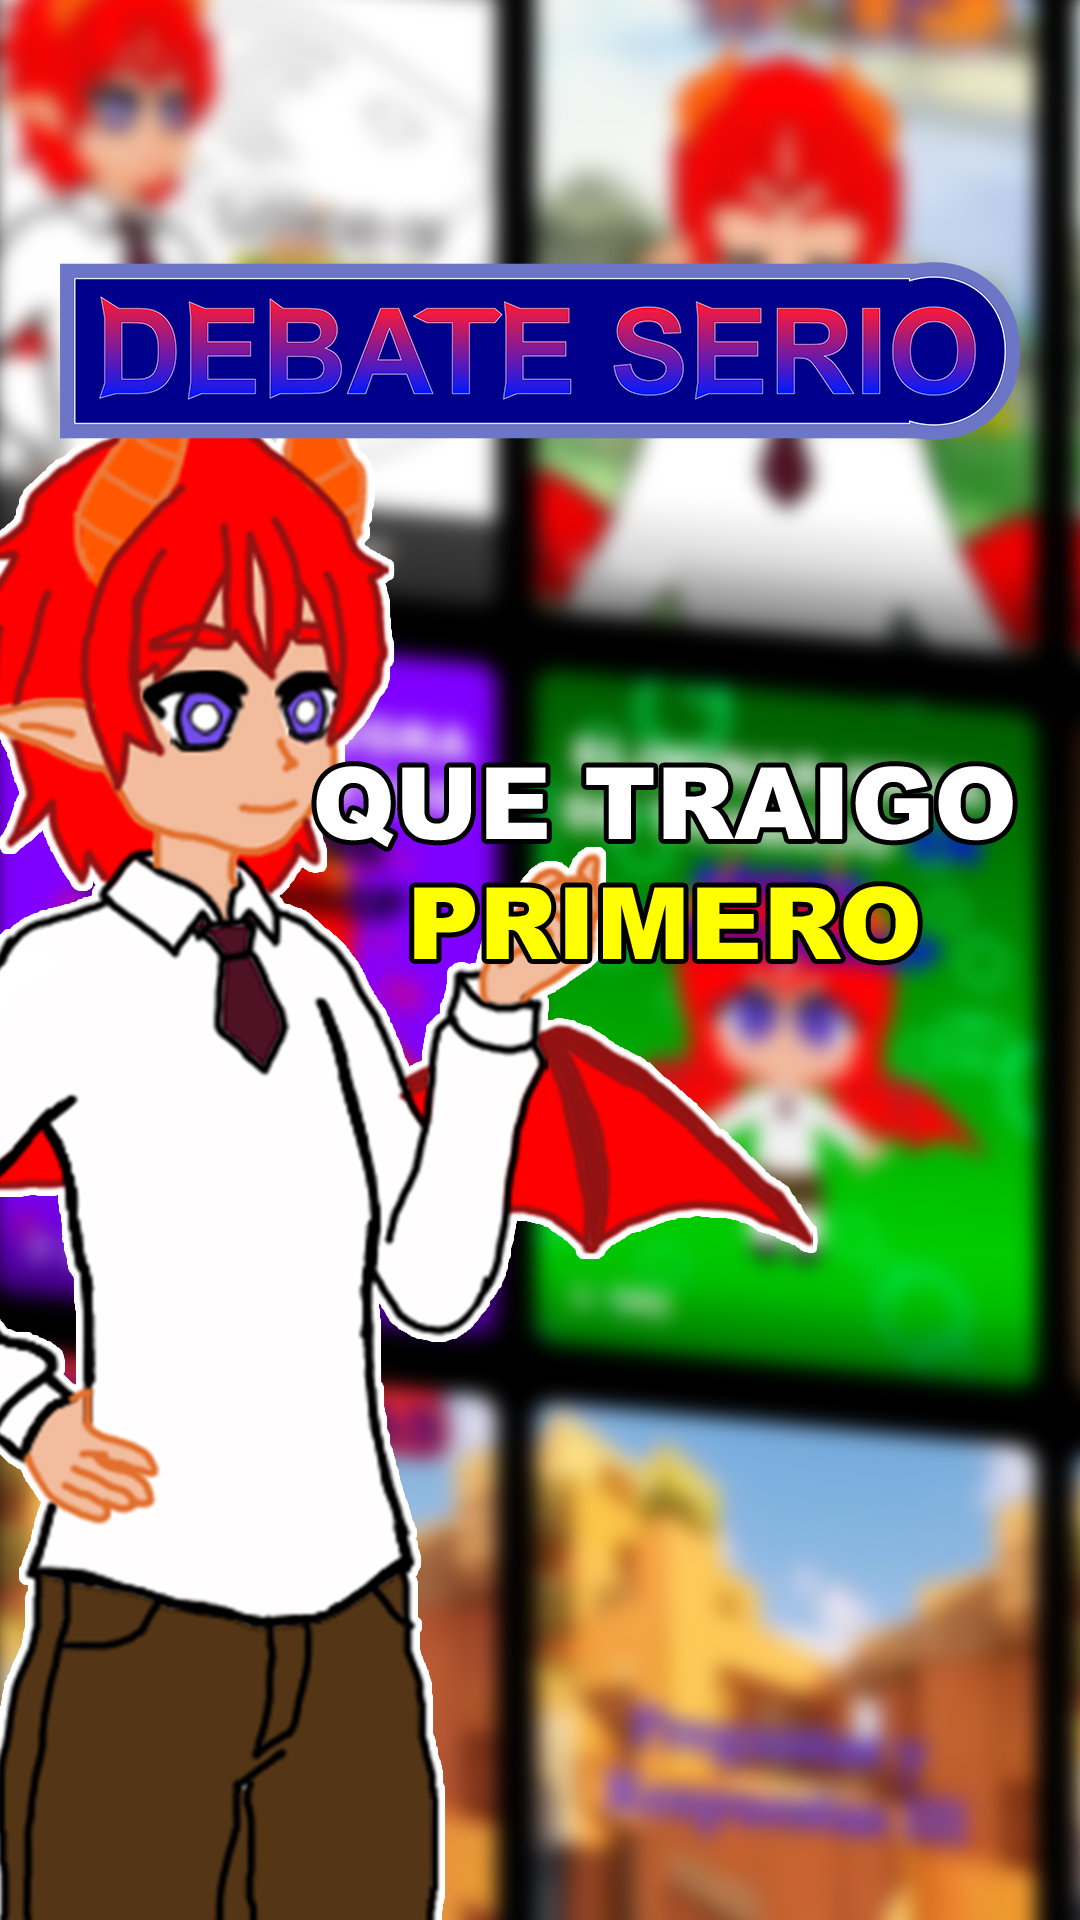
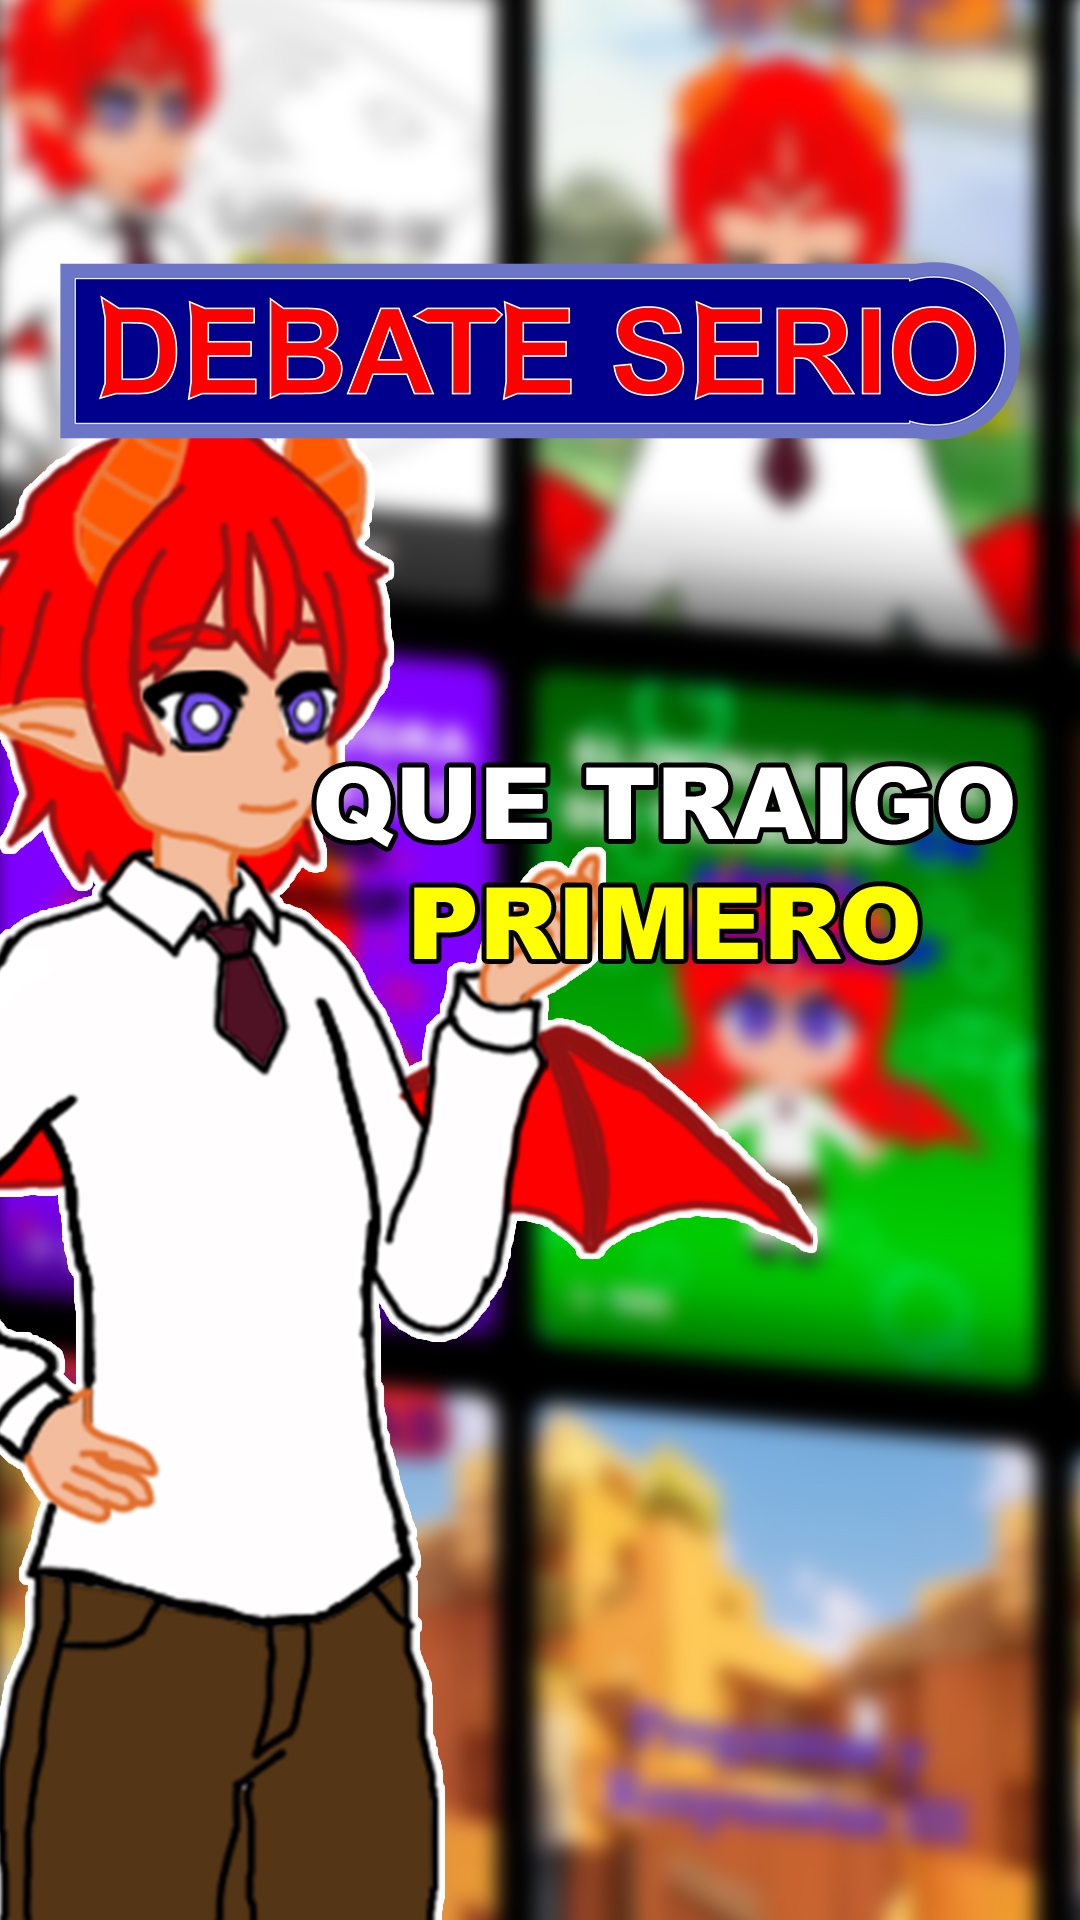
Arreglos para el Tema de la seccion Debates Serios

Changed region(s): [[0.0917, 0.1562, 0.9167, 0.2188]]

diff --git a/Comisiones.html b/Comisiones.html
@@ -245,9 +245,6 @@
                                     <img src="img/PORTFOLIO/PIEZAS GRAFICAS/LOGOS/COMPLEJOS/LOGO NAMUKIMERAVT DEBATE SERIO V1.png" />
                                 </div>
                                 <div class="carousel-item">
-                                    <img src="img/PORTFOLIO/PIEZAS GRAFICAS/LOGOS/COMPLEJOS/LOGO NAMUKIMERAVT DEBATE SERIO V2.png" />
-                                </div>
-                                <div class="carousel-item">
                                     <img src="img/PORTFOLIO/PIEZAS GRAFICAS/LOGOS/COMPLEJOS/LOGO NAMUKIMERAVT V2.png" />
                                 </div>
                                 <div class="carousel-item">

diff --git a/Portfolio.html b/Portfolio.html
@@ -200,9 +200,6 @@
                                     <img src="img/PORTFOLIO/PIEZAS GRAFICAS/LOGOS/COMPLEJOS/LOGO NAMUKIMERAVT DEBATE SERIO V1.png" />
                                 </div>
                                 <div class="carousel-item">
-                                    <img src="img/PORTFOLIO/PIEZAS GRAFICAS/LOGOS/COMPLEJOS/LOGO NAMUKIMERAVT DEBATE SERIO V2.png" />
-                                </div>
-                                <div class="carousel-item">
                                     <img src="img/PORTFOLIO/PIEZAS GRAFICAS/LOGOS/COMPLEJOS/LOGO NAMUKIMERAVT V2.png" />
                                 </div>
                                 <div class="carousel-item">
